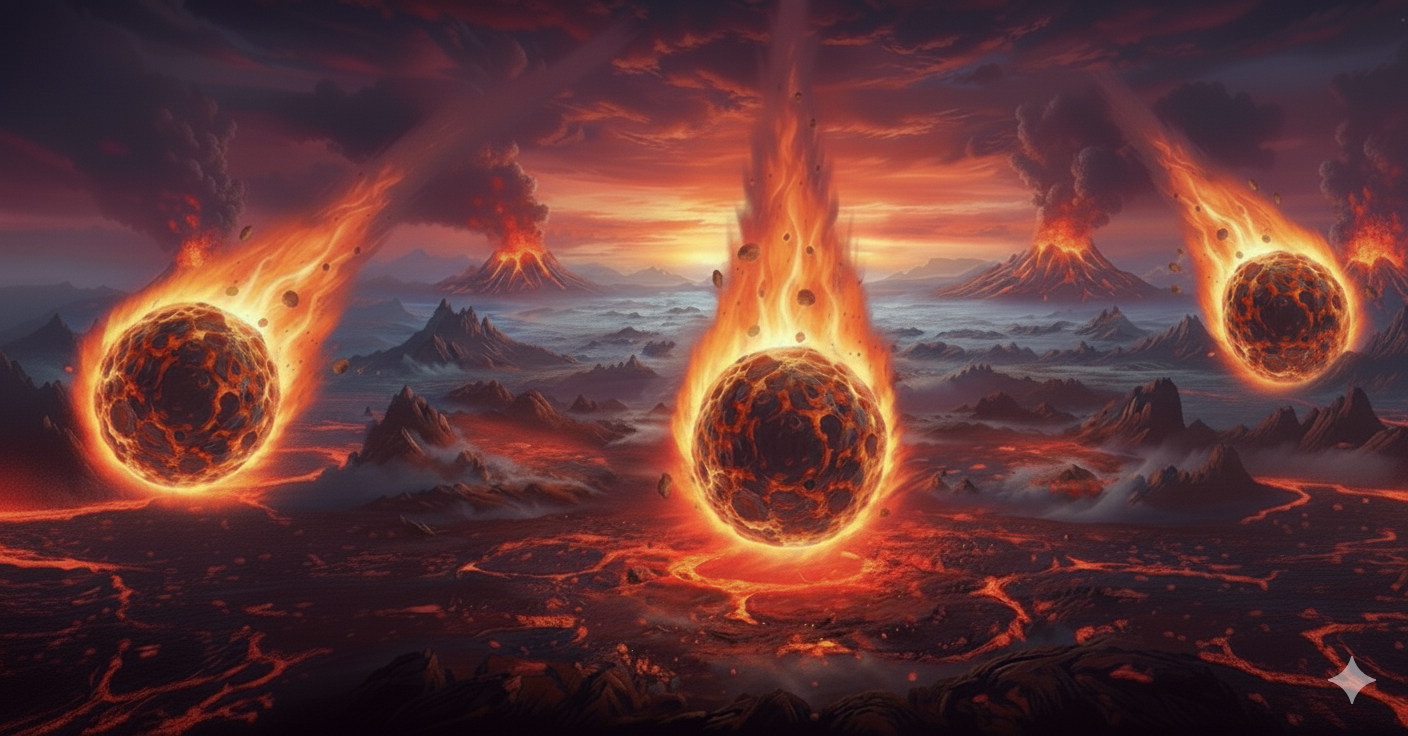
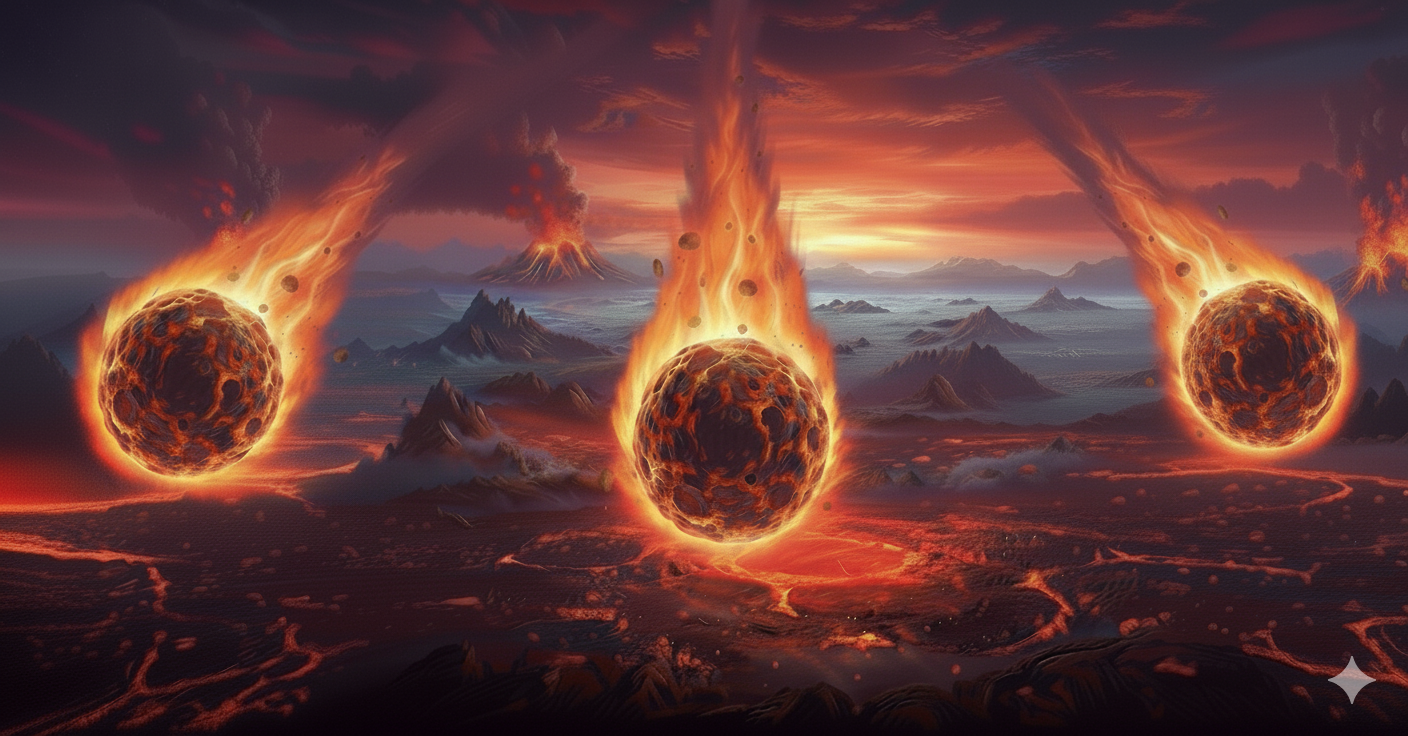
CSS de la ruta C

diff --git a/HTMLS/rutaC.css b/HTMLS/rutaC.css
@@ -4,10 +4,26 @@ html {
 }
 
 body {
-    height: 99%;
+    height: 98%;
     background: linear-gradient(180deg, rgb(140, 19, 19) 20%, rgb(0, 0, 0) 50%);
+    background-repeat: no-repeat;
+    display: flex;
+    flex-direction: column;
+    align-content: center;
+}
+
+.headerC{
+    width: 101%;
+    height: 20%;
+    background-color: rgb(0, 0, 0);
+    margin: -0.5%;
 }
 
 .mainBoxC {
-    background-image: url(img/ruta_c.png);
+    height: 84%;
+    background-image: url(img/rutaC.png);
+    background-repeat: no-repeat;
+    background-position: center;
+    background-size: cover;
+    margin: -0.5%;
 }
